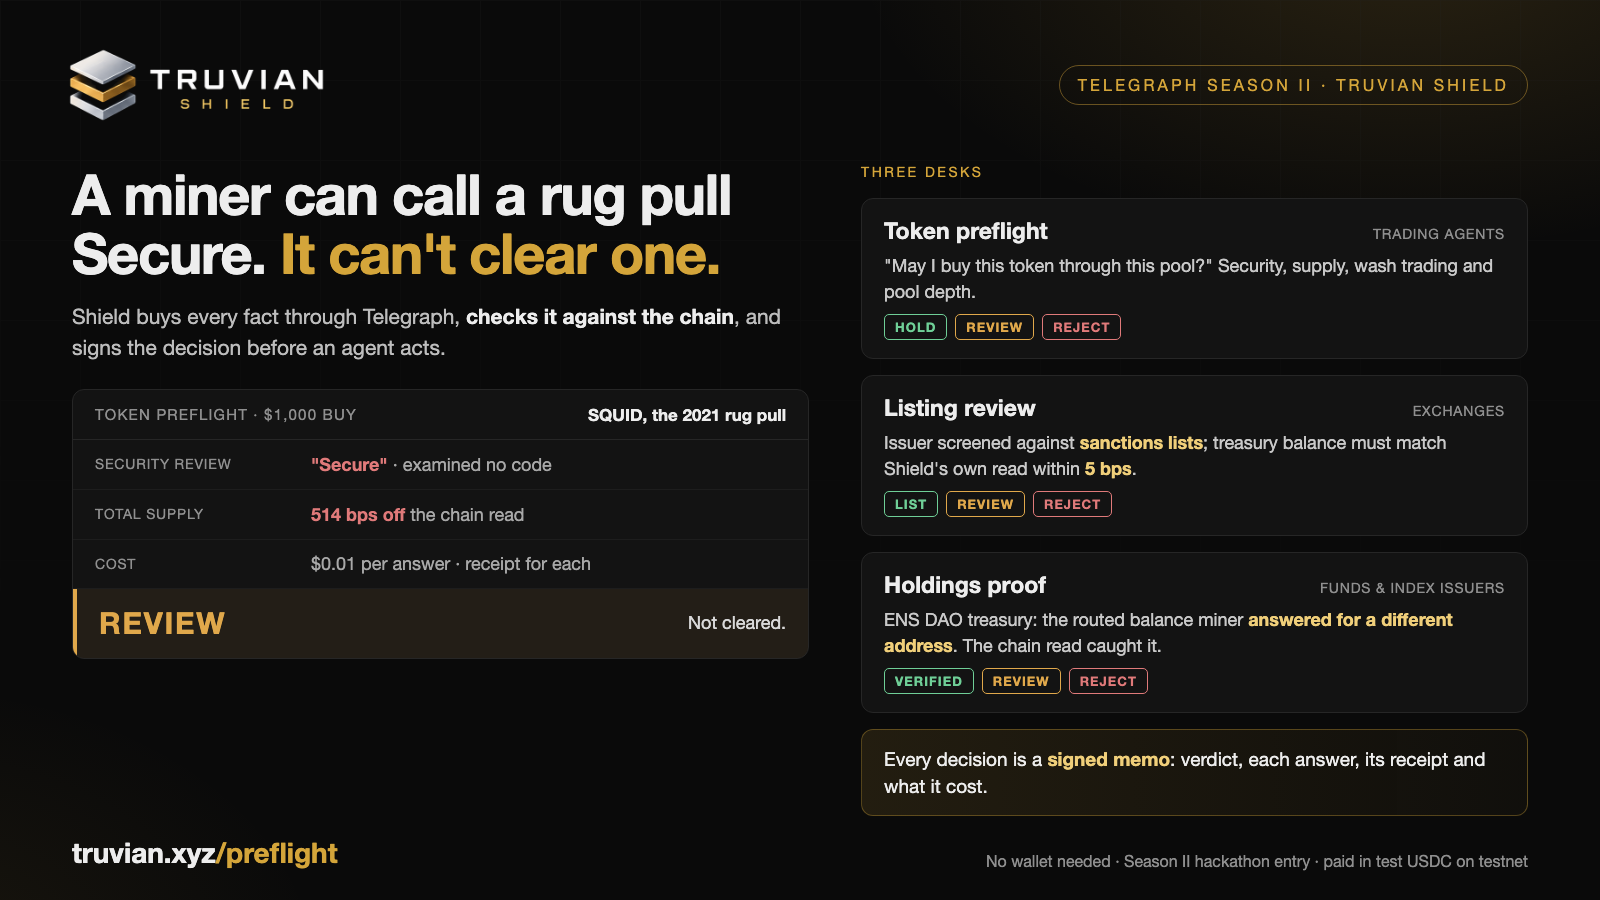
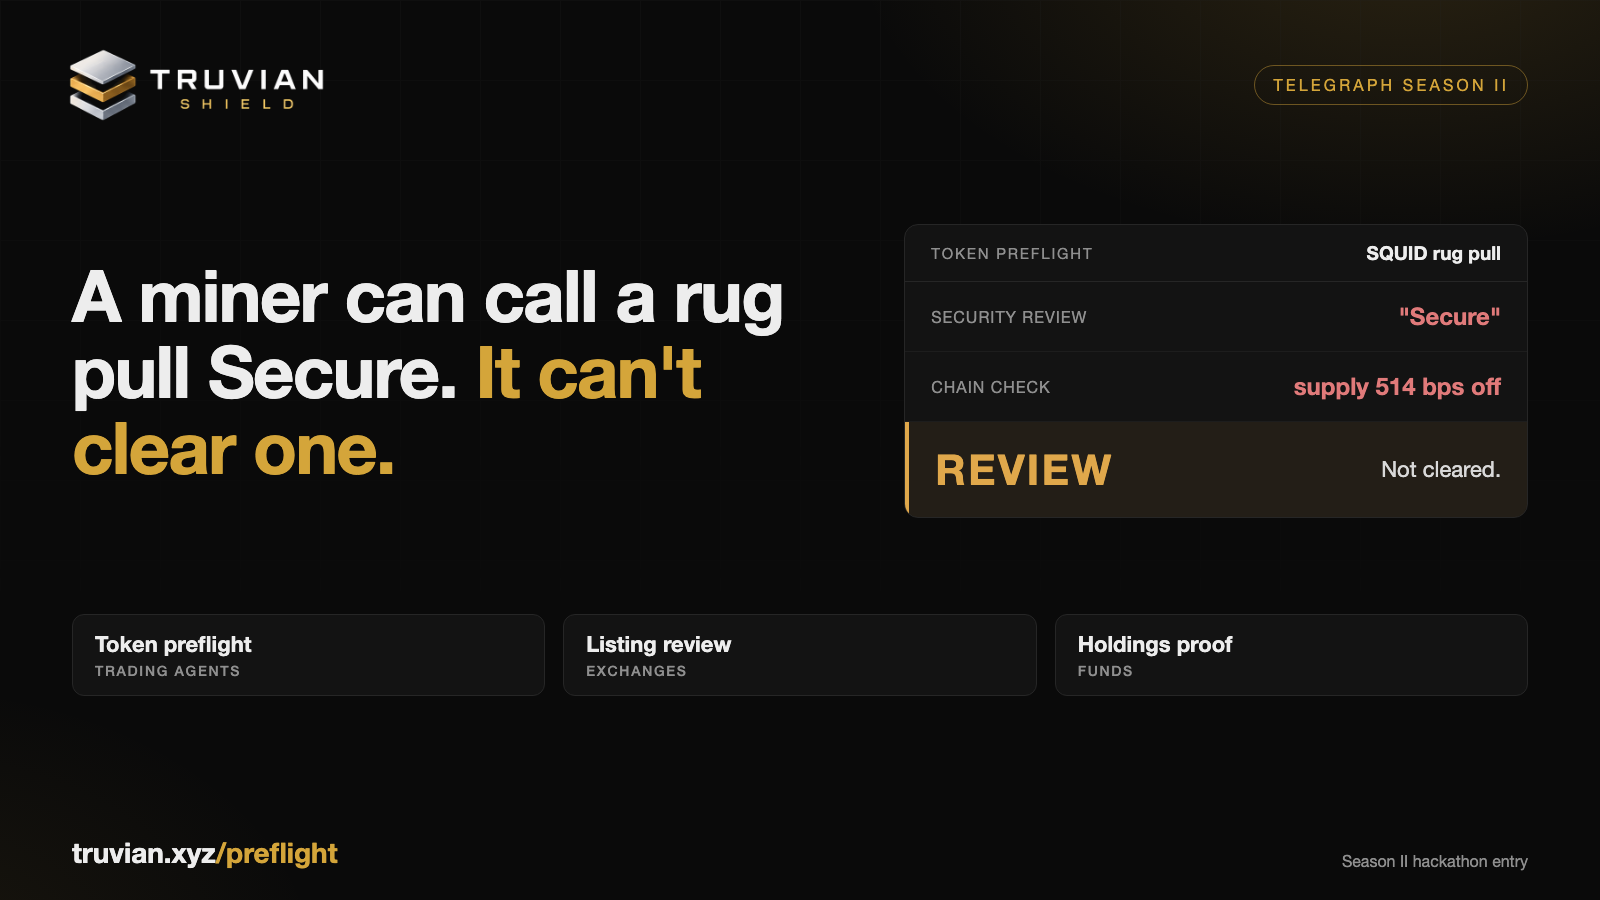
social: Shield flier cut down to the headline, the SQUID result and the three desks

diff --git a/docs/social/2026-11-24-shield.html b/docs/social/2026-11-24-shield.html
@@ -13,7 +13,7 @@
   .logo { height:78px; width:auto; display:block; margin-left:-6px; }
   .tag { font-size:16px; letter-spacing:.2em; color:var(--gold); border:1px solid rgba(212,165,58,.45); padding:10px 18px; border-radius:999px; text-transform:uppercase; }
   .cols { position:relative; display:grid; grid-template-columns:1.05fr .95fr; gap:52px; margin-top:40px; }
-  h1 { font-size:56px; line-height:1.06; font-weight:700; letter-spacing:-.022em; }
+  h1 { font-size:72px; line-height:1.06; font-weight:700; letter-spacing:-.022em; }
   h1 span { color:var(--gold); }
   .lede { margin-top:18px; font-size:21px; line-height:1.45; color:#bdbdbd; }
   .lede b { color:var(--text); font-weight:600; }
@@ -46,46 +46,40 @@
   .foot { position:absolute; left:72px; right:72px; bottom:30px; display:flex; justify-content:space-between; align-items:flex-end; font-size:16px; color:var(--dim); }
   .foot .url { font-size:28px; color:var(--text); font-weight:600; }
   .foot .url span { color:var(--gold); }
+  .one { position:relative; display:grid; grid-template-columns:1.1fr .9fr; gap:70px; margin-top:100px; align-items:center; }
+  .big { background:var(--panel); border:1px solid var(--line); border-radius:14px; overflow:hidden; }
+  .big .row { grid-template-columns:1fr auto; padding:20px 26px; font-size:24px; }
+  .big .row .k { font-size:16px; }
+  .big .verdict { padding:22px 26px; }
+  .big .verdict .w { font-size:42px; }
+  .big .verdict .s { font-size:22px; }
+  .desk3 { position:relative; display:flex; gap:18px; margin-top:96px; }
+  .bhead { display:flex; justify-content:space-between; align-items:center; padding:16px 26px; border-bottom:1px solid var(--line); font-size:15px; color:var(--dim); letter-spacing:.12em; text-transform:uppercase; }
+  .bhead b { color:var(--text); font-size:19px; letter-spacing:0; text-transform:none; }
+  .desk3 div { flex:1; background:var(--panel); border:1px solid var(--line); border-radius:12px; padding:16px 22px; font-size:22px; font-weight:600; }
+  .desk3 small { display:block; font-size:14px; color:var(--dim); letter-spacing:.12em; text-transform:uppercase; font-weight:500; margin-top:4px; }
 </style></head>
 <body><div class="page"><div class="grid"></div>
   <div class="top">
     <img class="logo" src="../../src/shield/public/brand/truvian-header.png" alt="Truvian">
-    <div class="tag">Telegraph Season II · Truvian Shield</div>
+    <div class="tag">Telegraph Season II</div>
   </div>
-  <div class="cols">
-    <div>
-      <h1>A miner can call a rug pull Secure. <span>It can't clear one.</span></h1>
-      <p class="lede">Shield buys every fact through Telegraph, <b>checks it against the chain</b>, and signs the decision before an agent acts.</p>
-      <div class="memo">
-        <div class="head"><span>Token preflight · $1,000 buy</span><b>SQUID, the 2021 rug pull</b></div>
-        <div class="row"><span class="k">SECURITY REVIEW</span><span><span class="bad">"Secure"</span> <span class="note">· examined no code</span></span></div>
-        <div class="row"><span class="k">TOTAL SUPPLY</span><span><span class="bad">514 bps off</span> <span class="note">the chain read</span></span></div>
-        <div class="row"><span class="k">COST</span><span class="note">$0.01 per answer · receipt for each</span></div>
-        <div class="verdict"><span class="w">REVIEW</span><span class="s">Not cleared.</span></div>
-      </div>
+  <div class="one">
+    <h1>A miner can call a rug pull Secure. <span>It can't clear one.</span></h1>
+    <div class="big">
+      <div class="bhead"><span>Token preflight</span><b>SQUID rug pull</b></div>
+      <div class="row"><span class="k">SECURITY REVIEW</span><span class="bad">"Secure"</span></div>
+      <div class="row"><span class="k">CHAIN CHECK</span><span class="bad">supply 514 bps off</span></div>
+      <div class="verdict"><span class="w">REVIEW</span><span class="s">Not cleared.</span></div>
     </div>
-    <div class="desks">
-      <div class="label">Three desks</div>
-      <div class="card">
-        <div class="t"><span class="n">Token preflight</span><span class="who">Trading agents</span></div>
-        <div class="v">"May I buy this token through this pool?" Security, supply, wash trading and pool depth.</div>
-        <div class="chips"><span class="chip g">HOLD</span><span class="chip y">REVIEW</span><span class="chip r">REJECT</span></div>
-      </div>
-      <div class="card">
-        <div class="t"><span class="n">Listing review</span><span class="who">Exchanges</span></div>
-        <div class="v">Issuer screened against <b>sanctions lists</b>; treasury balance must match Shield's own read within <b>5 bps</b>.</div>
-        <div class="chips"><span class="chip g">LIST</span><span class="chip y">REVIEW</span><span class="chip r">REJECT</span></div>
-      </div>
-      <div class="card">
-        <div class="t"><span class="n">Holdings proof</span><span class="who">Funds &amp; index issuers</span></div>
-        <div class="v">ENS DAO treasury: the routed balance miner <b>answered for a different address</b>. The chain read caught it.</div>
-        <div class="chips"><span class="chip g">VERIFIED</span><span class="chip y">REVIEW</span><span class="chip r">REJECT</span></div>
-      </div>
-      <div class="paid">Every decision is a <b>signed memo</b>: verdict, each answer, its receipt and what it cost.</div>
-    </div>
+  </div>
+  <div class="desk3">
+    <div>Token preflight<small>Trading agents</small></div>
+    <div>Listing review<small>Exchanges</small></div>
+    <div>Holdings proof<small>Funds</small></div>
   </div>
   <div class="foot">
     <div class="url">truvian.xyz<span>/preflight</span></div>
-    <div>No wallet needed · Season II hackathon entry · paid in test USDC on testnet</div>
+    <div>Season II hackathon entry</div>
   </div>
 </div></body></html>
